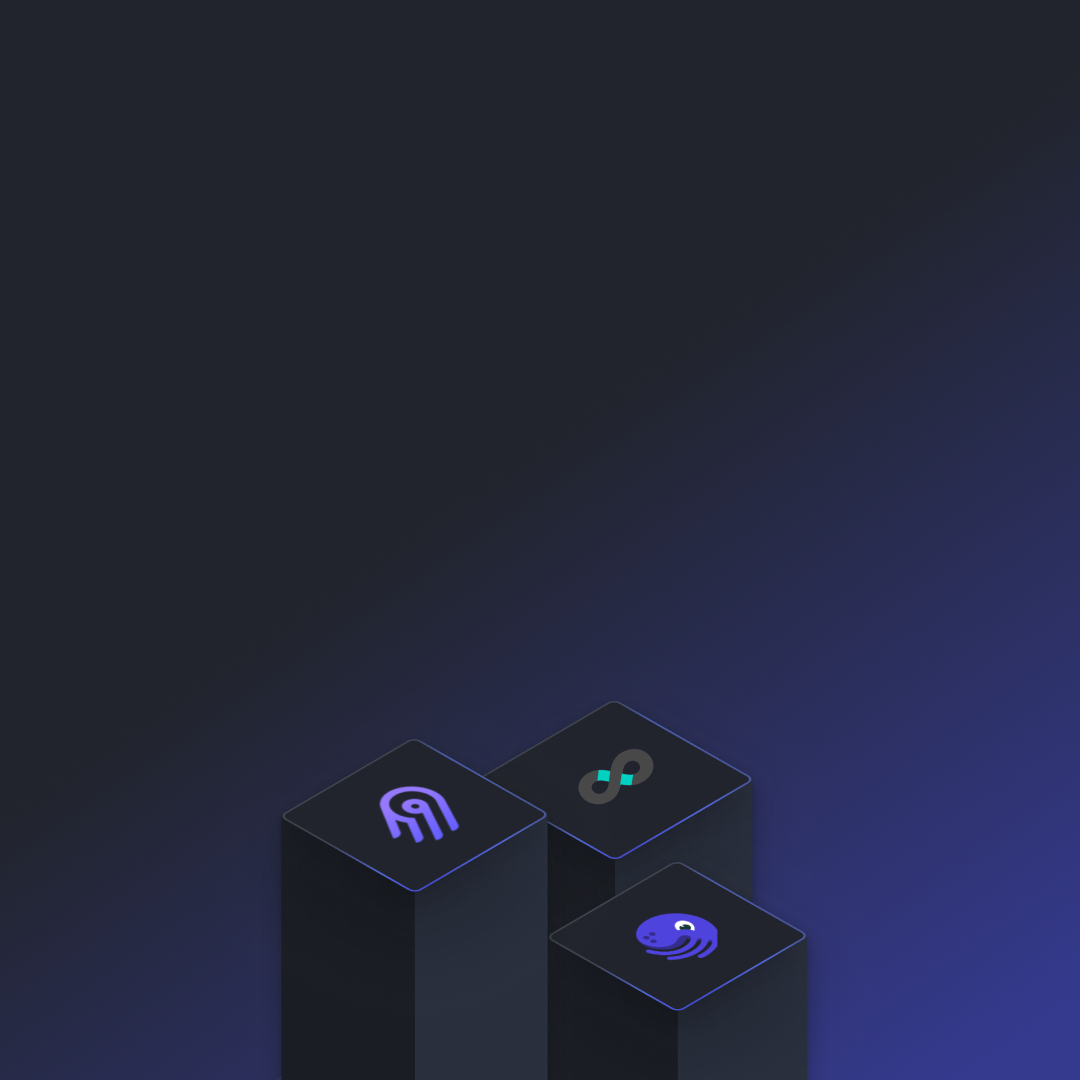
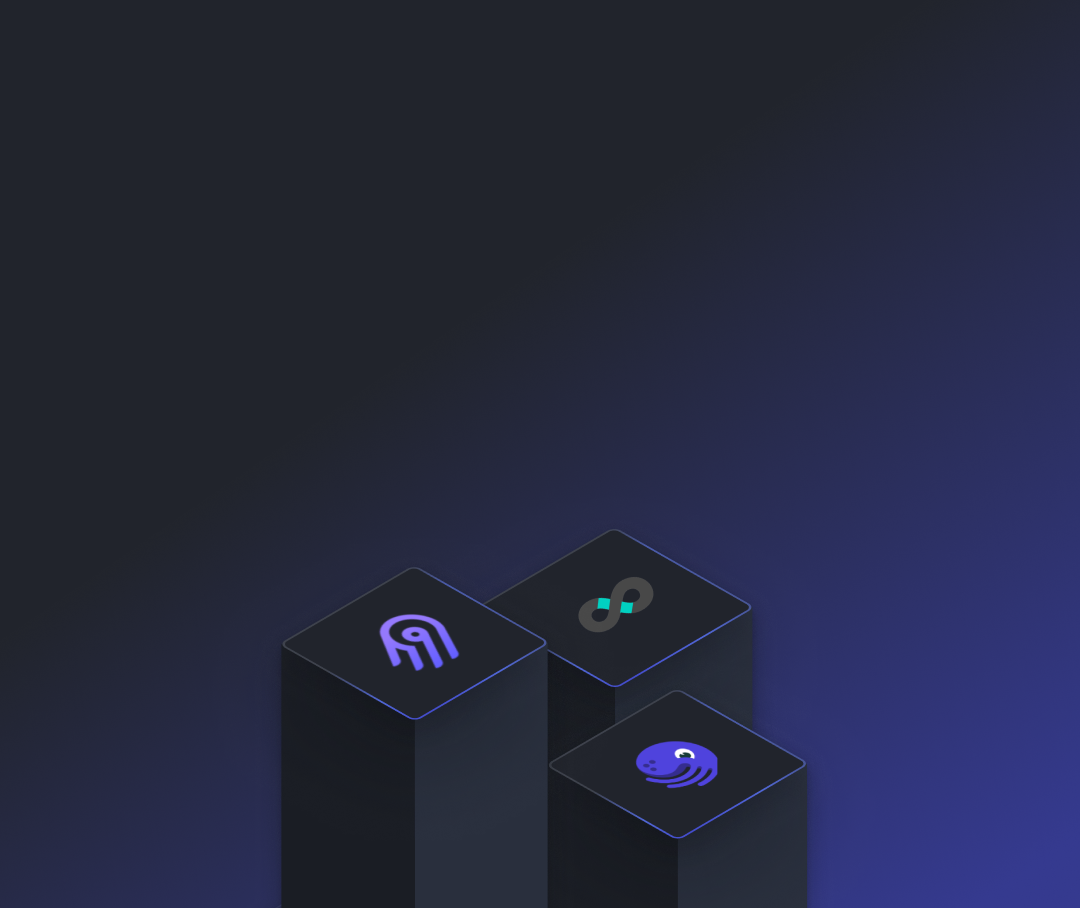
Update stack image sizes

diff --git a/src/components/MarketplaceStackHero.tsx b/src/components/MarketplaceStackHero.tsx
@@ -45,7 +45,7 @@ const HeroStyles = styled.div<{ bgImg: string }>(({ theme, bgImg }) => ({
   border: theme.borders['fill-one'],
   overflow: 'hidden',
   display: 'flex',
-  minHeight: '540px',
+  minHeight: '454px',
   '& > *': { flexShrink: 0 },
   '.contentWrap': {
     width: '100%',
